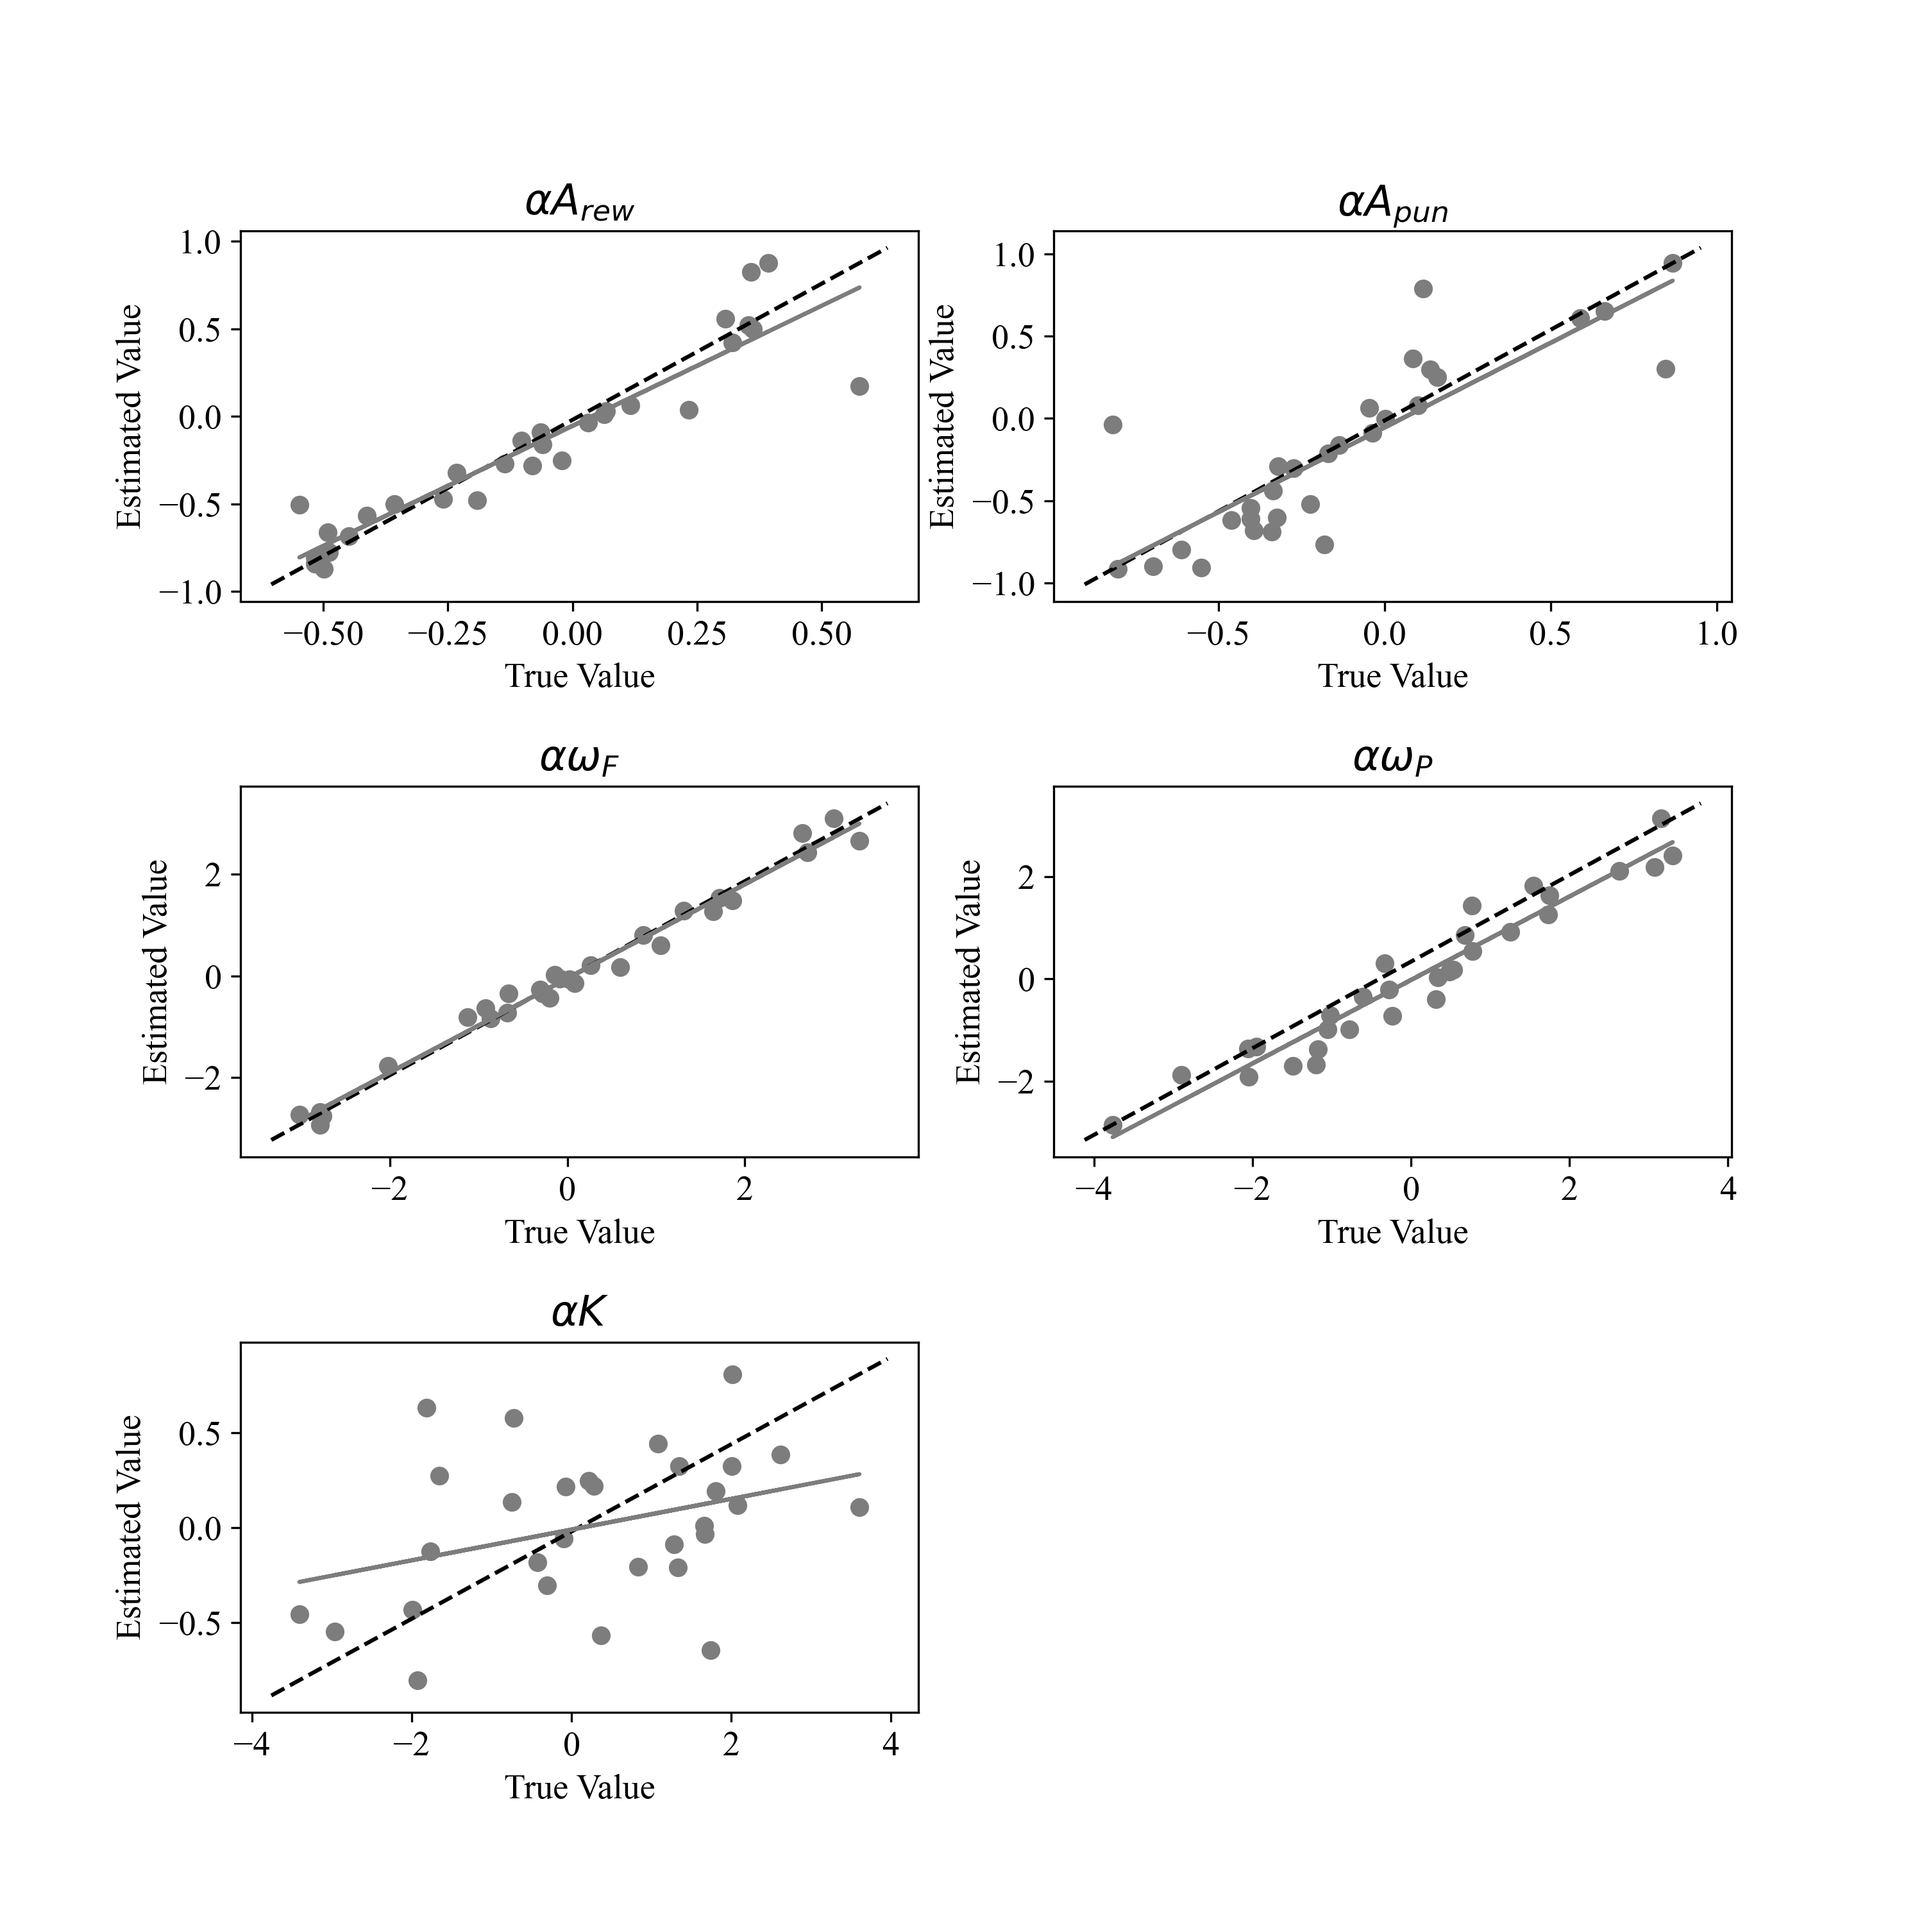
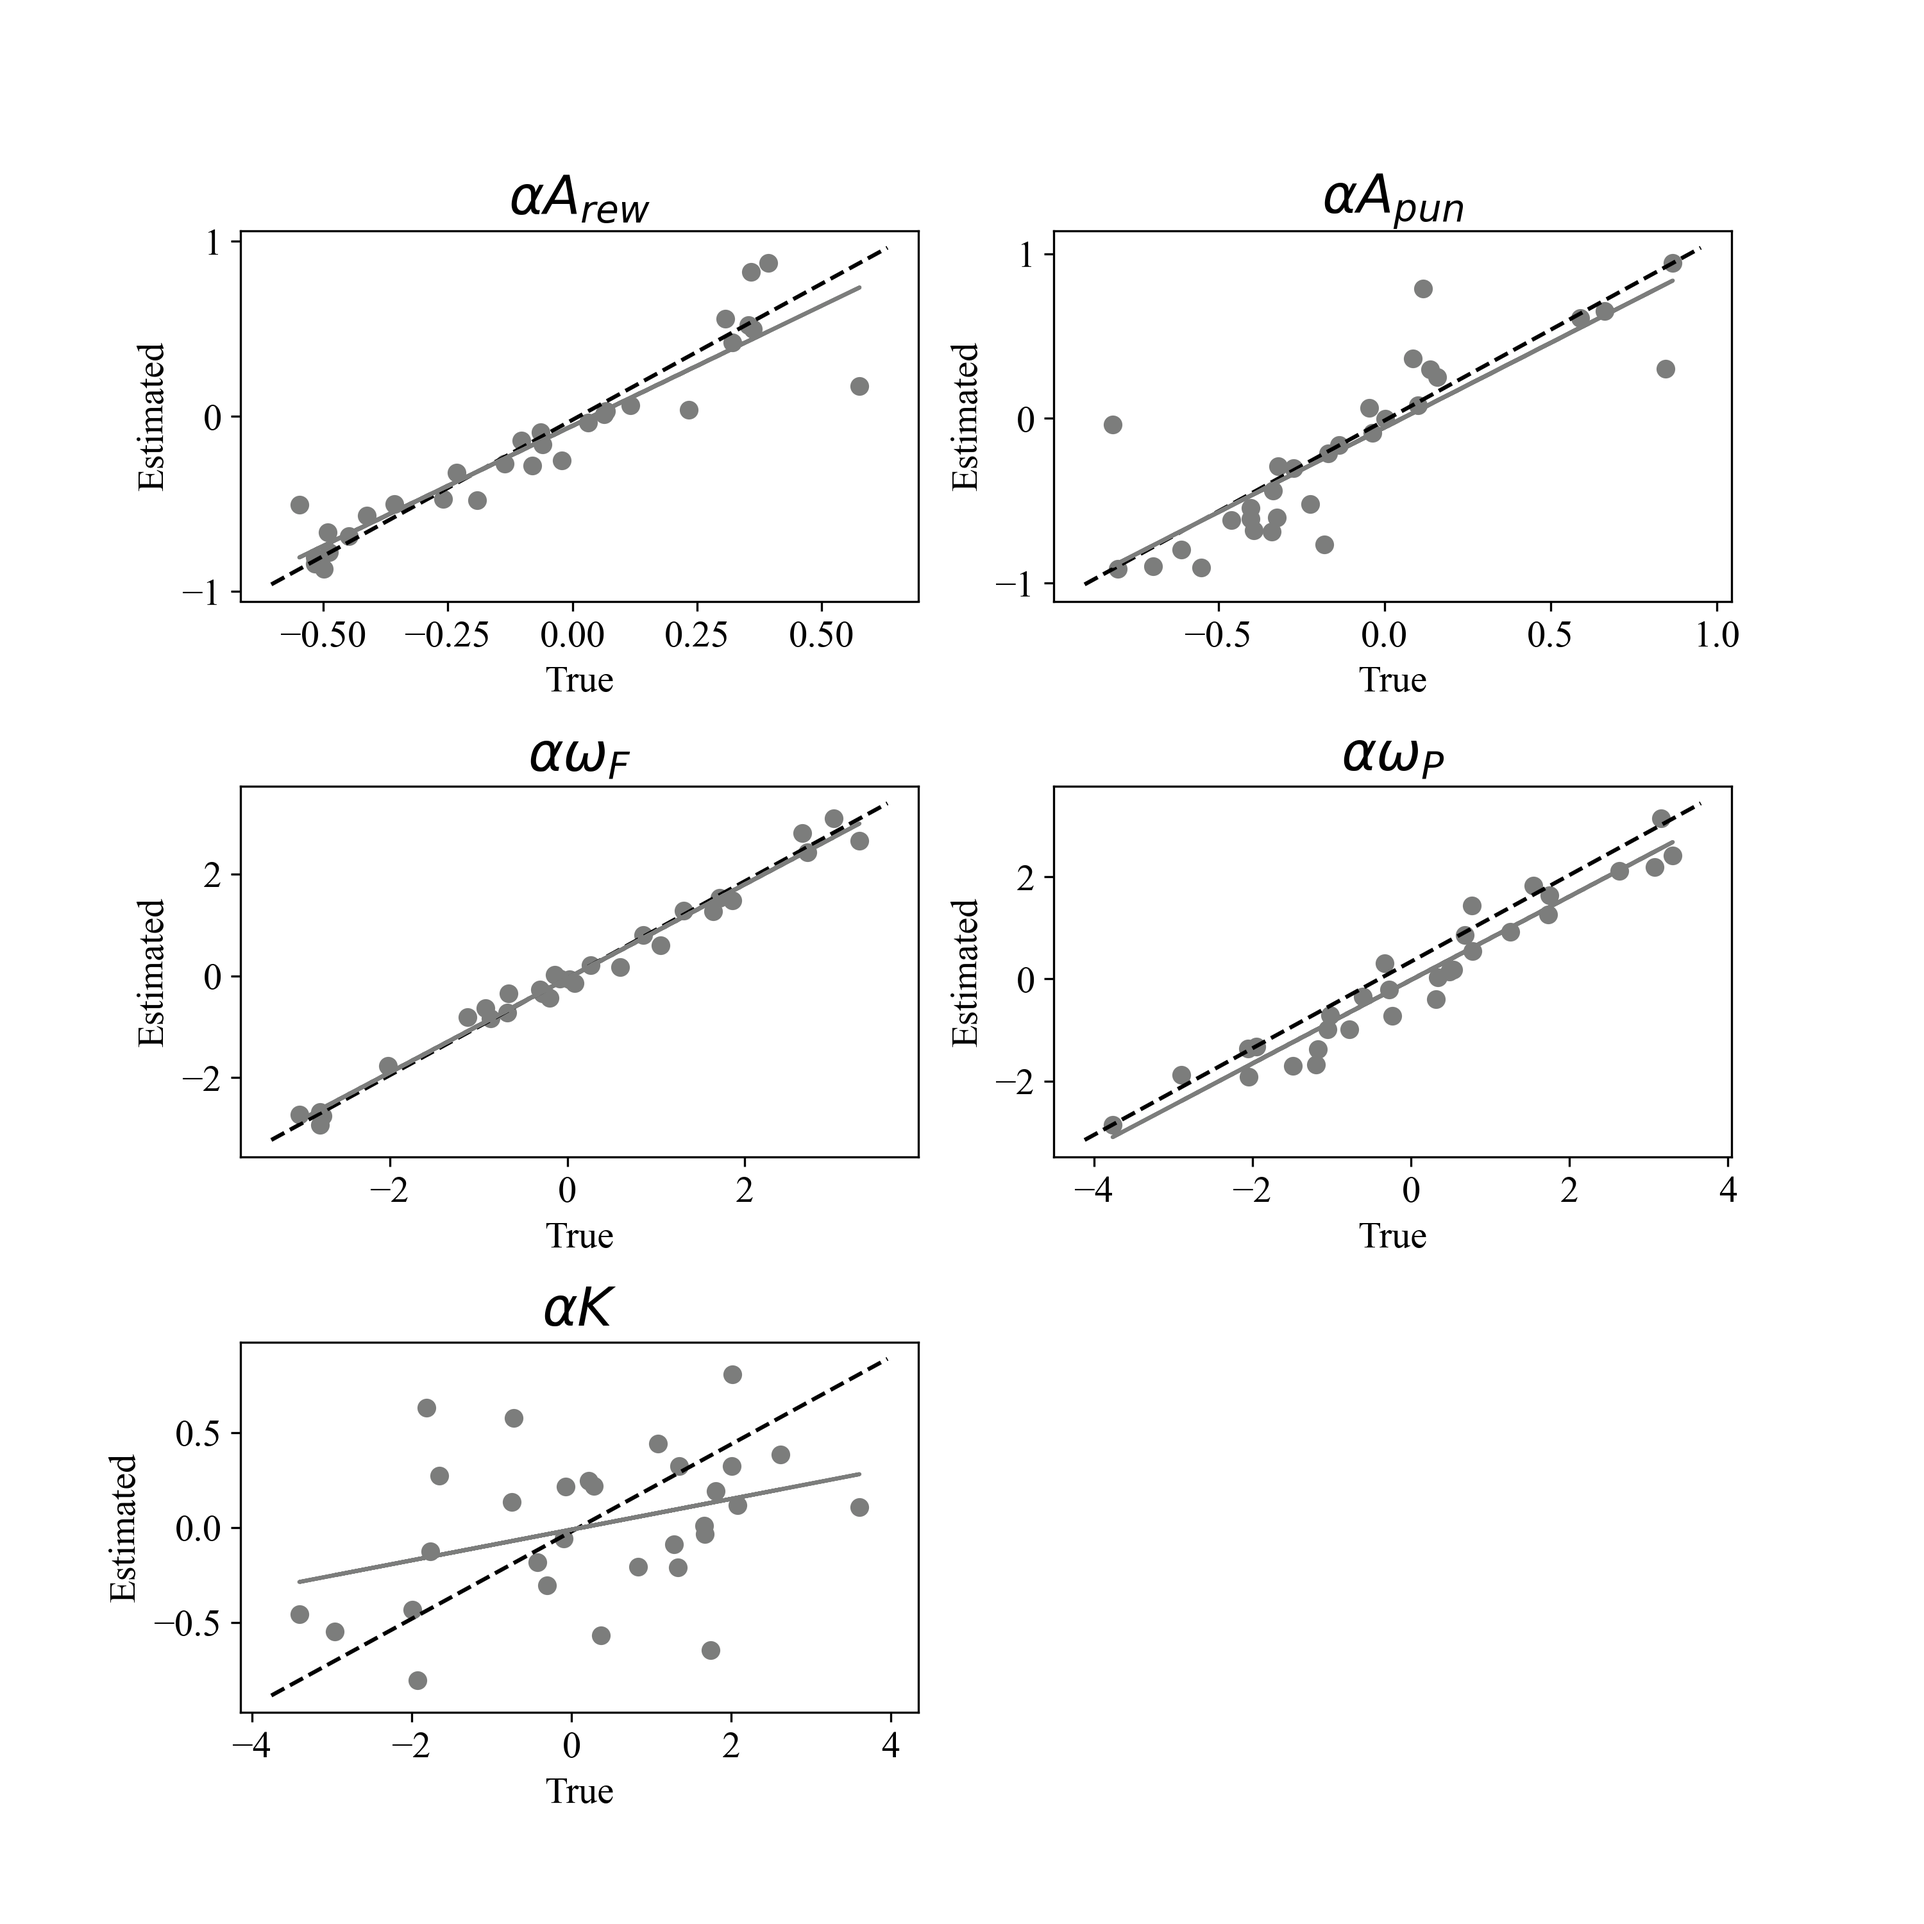
bigger font for headlines on all subplots

diff --git a/src/recovery/plot_recovery.py b/src/recovery/plot_recovery.py
@@ -16,7 +16,7 @@ def set_font():
         # use times new roman if available
         plt.rcParams['font.family'] = 'Times New Roman'
         # set font size to 13
-        plt.rcParams.update({'font.size': 13})
+        plt.rcParams.update({'font.size': 14})
 
 def chance_level(n, alpha = 0.001, p = 0.5):
     k = binom.ppf(1-alpha, n, p)
@@ -29,9 +29,9 @@ def plot_parameter(ax, df, true_col, infer_col, title, col="#7C7D7C"):
     Helper function to plot parameter recovery.
     '''
     ax.scatter(df[true_col], df[infer_col], c=col)
-    ax.set_title(title)
-    ax.set_xlabel("True Value")
-    ax.set_ylabel("Estimated Value")
+    ax.set_title(title, fontsize=20)
+    ax.set_xlabel("True")
+    ax.set_ylabel("Estimated")
     ax.plot(ax.get_xlim(), ax.get_ylim(), ls="--", c="black")  # Add diagonal line
     m, b = np.polyfit(df[true_col], df[infer_col], 1)
     ax.plot(df[true_col], m*df[true_col] + b, c=col)  # Add regression line
